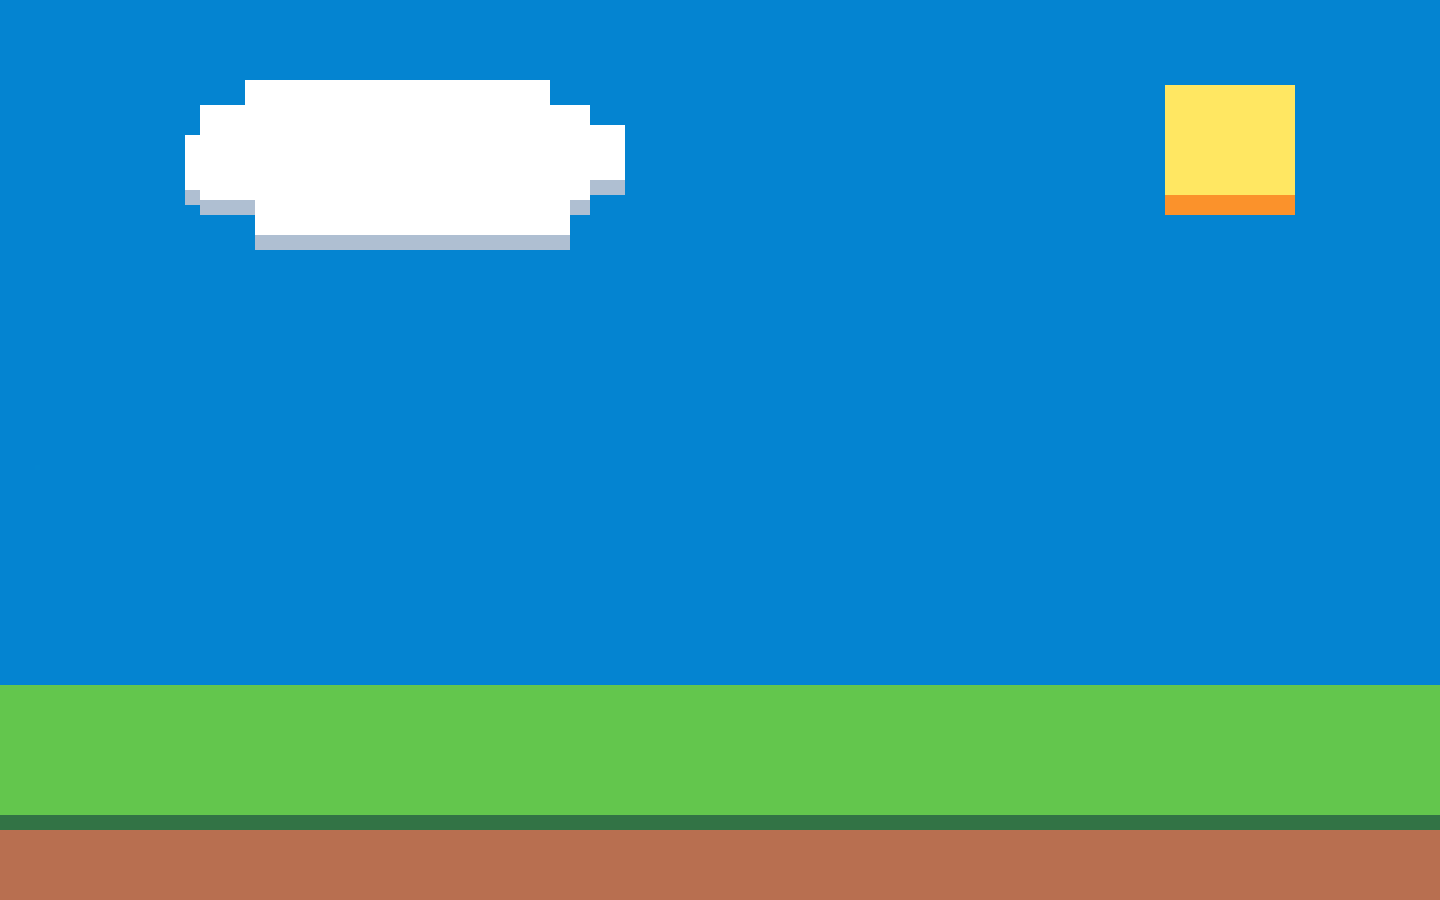
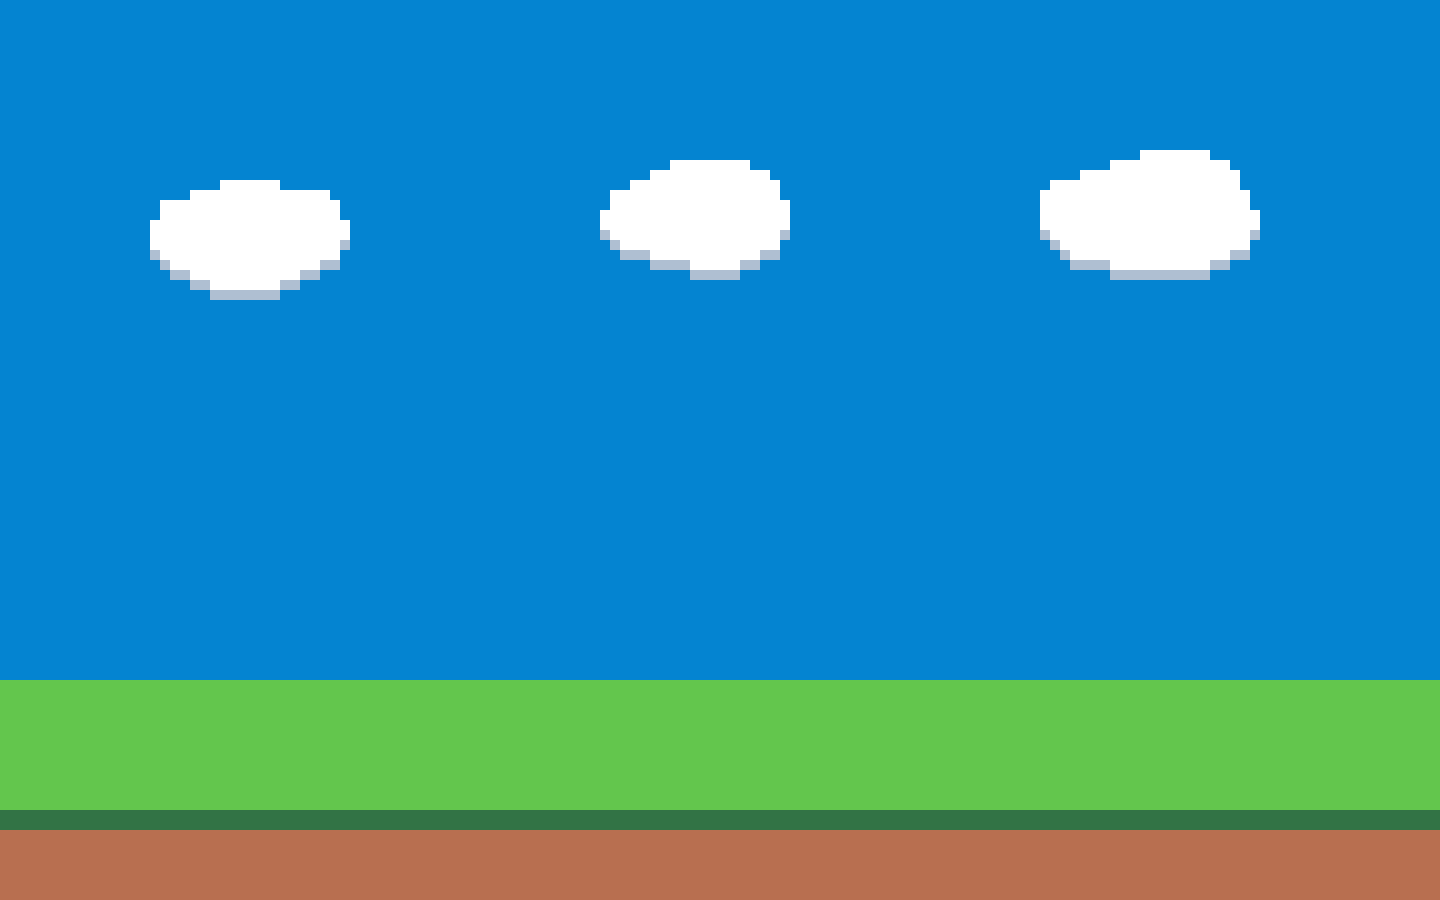
Changed background, Made level long.

diff --git a/dev/views/PlayView/game.ts b/dev/views/PlayView/game.ts
@@ -38,7 +38,7 @@ class Game {
         game.appendChild(this.div)
 
         // Pushing all gameobjects for the Game with parameters (x,y,"name")
-        this.gameobjects.push(new Background(0,0,"background"))
+        this.gameobjects.push(new Background(-1440,0,"background"))
         this.gameobjects.push(new Tree(500,400,"tree"))
         this.gameobjects.push(new Enemy1(1000,630,"enemy1"))
         this.gameobjects.push(new Enemy2(1200,630,"enemy2"))

diff --git a/docs/css/style.css b/docs/css/style.css
@@ -60,8 +60,9 @@ tree {
 
 background {
     background-image: url(../img/background.png);
-    width:1440px; height: 900px;
+    width:14400px; height: 900px;
     background-size: inherit;
+    background-repeat: repeat-x;
     border-image-outset: 10px inherit black;
     z-index: -2;
 }
